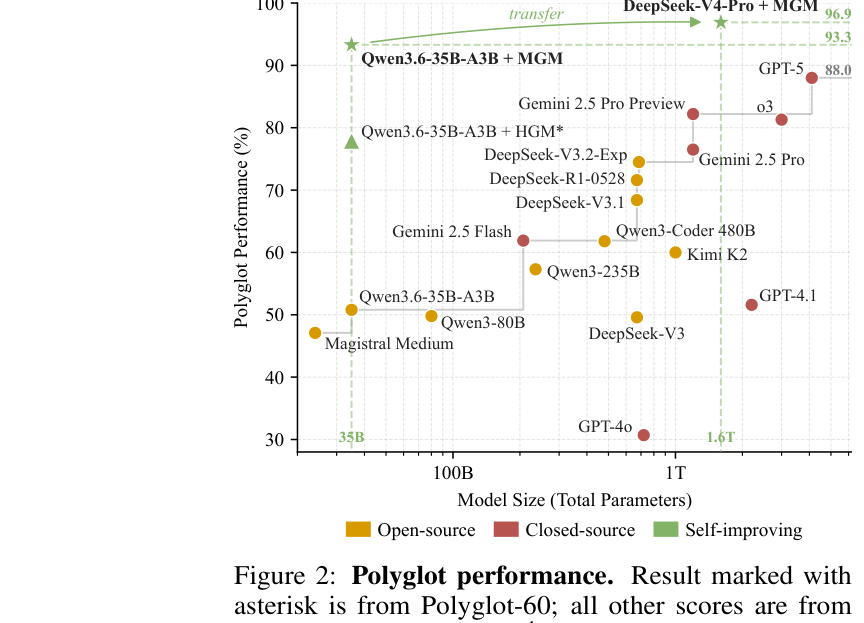
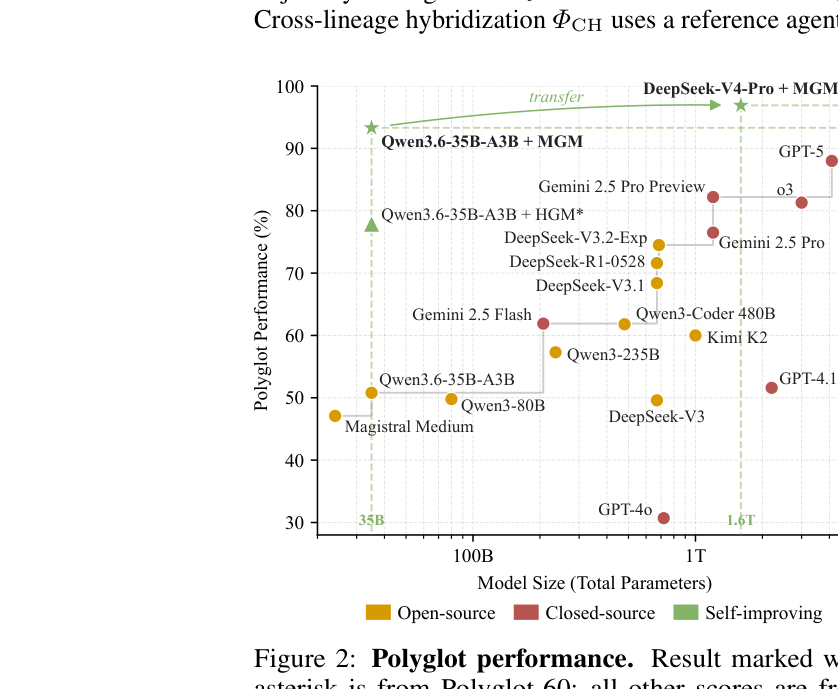
Replace site figures with clean paper artwork and redrawn trees
Swap caption-cropped screenshots for clean Fig.1–2, token violin,
t-SNE, skill-transfer, utility bubbles, and the four circular
evolution trees (MGM / HGM / ablations). Update the trees section
layout accordingly. Add a GitHub Actions Pages workflow.

Changed region(s): [[0.2482, 0.0, 1.0, 1.0], [0.7136, 0.5795, 0.8377, 0.6404], [0.8998, 0.5185, 1.0, 0.5795]]

diff --git a/docs/index.html b/docs/index.html
@@ -701,21 +701,44 @@ footer{
     <p class="eyebrow rv">05 · Evolution Trees</p>
     <h2 class="rv">Lineages you can <span class="leaf">read</span></h2>
     <p class="lede rv">
-      Edge color encodes the operator that created each child. Node color tracks accuracy; ★ marks full-eval nodes.
+      Circular cladograms after 200 φ-evaluations and 24 Φ-expansions on Polyglot.
+      Edge color = operator; node color = utility; grey arcs = hybridization references.
     </p>
     <div class="fig-block pair rv">
       <div>
-        <img src="assets/images/hgm_tree_hgm_polyglot.png" alt="HGM evolution tree on Polyglot" width="700" height="700" loading="lazy">
-        <p class="fig-label"><b>HGM</b> — clonal mutation only (A = 1.0).</p>
+        <img src="assets/images/tree_mgm.png" alt="MGM evolution tree with clonal, reaction-norm, and cross-lineage edges" width="848" height="801" loading="lazy">
+        <p class="fig-label"><b>(a) MGM</b> — CM · RM · CH with hybridization references.</p>
       </div>
       <div>
-        <img src="assets/images/hgm_tree_mgm_polyglot.png" alt="MGM evolution tree on Polyglot" width="700" height="700" loading="lazy">
-        <p class="fig-label"><b>MGM</b> — red CM · orange RM · purple CH (0.1 : 0.45 : 0.45).</p>
+        <img src="assets/images/tree_hgm.png" alt="HGM evolution tree using clonal mutation only" width="848" height="801" loading="lazy">
+        <p class="fig-label"><b>(b) HGM</b> — clonal mutation only.</p>
       </div>
     </div>
+    <div class="fig-block pair rv" style="margin-top:18px">
+      <div>
+        <img src="assets/images/tree_wo_rm.png" alt="Ablation without reaction-norm mutation" width="848" height="796" loading="lazy">
+        <p class="fig-label"><b>(c) w/o Φ<sub>RM</sub></b> — CM + CH remain.</p>
+      </div>
+      <div>
+        <img src="assets/images/tree_wo_ch.png" alt="Ablation without cross-lineage hybridization" width="848" height="796" loading="lazy">
+        <p class="fig-label"><b>(d) w/o Φ<sub>CH</sub></b> — within-lineage evolution only.</p>
+      </div>
+    </div>
+
+    <div class="fig-block pair rv" style="margin-top:36px">
+      <div>
+        <img src="assets/images/fig9_final_utility.png" alt="Final per-node utilities for MGM, HGM, and ablations" width="1736" height="630" loading="lazy">
+        <p class="fig-label"><b>Final utilities.</b> Marker area ∝ evaluations; + marks the selected result.</p>
+      </div>
+      <div>
+        <img src="assets/images/fig10_skill_transfer.png" alt="Cross-lineage hybridization skill emergence and transfer" width="758" height="528" loading="lazy">
+        <p class="fig-label"><b>Skill transfer.</b> A solved lineage donates capability to a failing peer via Φ<sub>CH</sub>.</p>
+      </div>
+    </div>
+
     <div class="fig-block rv" style="margin-top:28px">
-      <img src="assets/images/to_implement_tsne_mgm_vs_hgm.png" alt="t-SNE of agent behavioral features: MGM vs HGM" width="1200" height="700" loading="lazy">
-      <p class="fig-label"><b>Behavioral geometry.</b> t-SNE of agent features — MGM explores a different region of scaffold space than single-trajectory HGM.</p>
+      <img src="assets/images/to_implement_tsne_mgm_vs_hgm.png" alt="t-SNE of To-Implement semantics: MGM vs HGM" width="1200" height="700" loading="lazy">
+      <p class="fig-label"><b>Semantic geometry.</b> t-SNE of evolved “To Implement” skills — MGM clusters differently from HGM.</p>
     </div>
   </div>
 </section>
